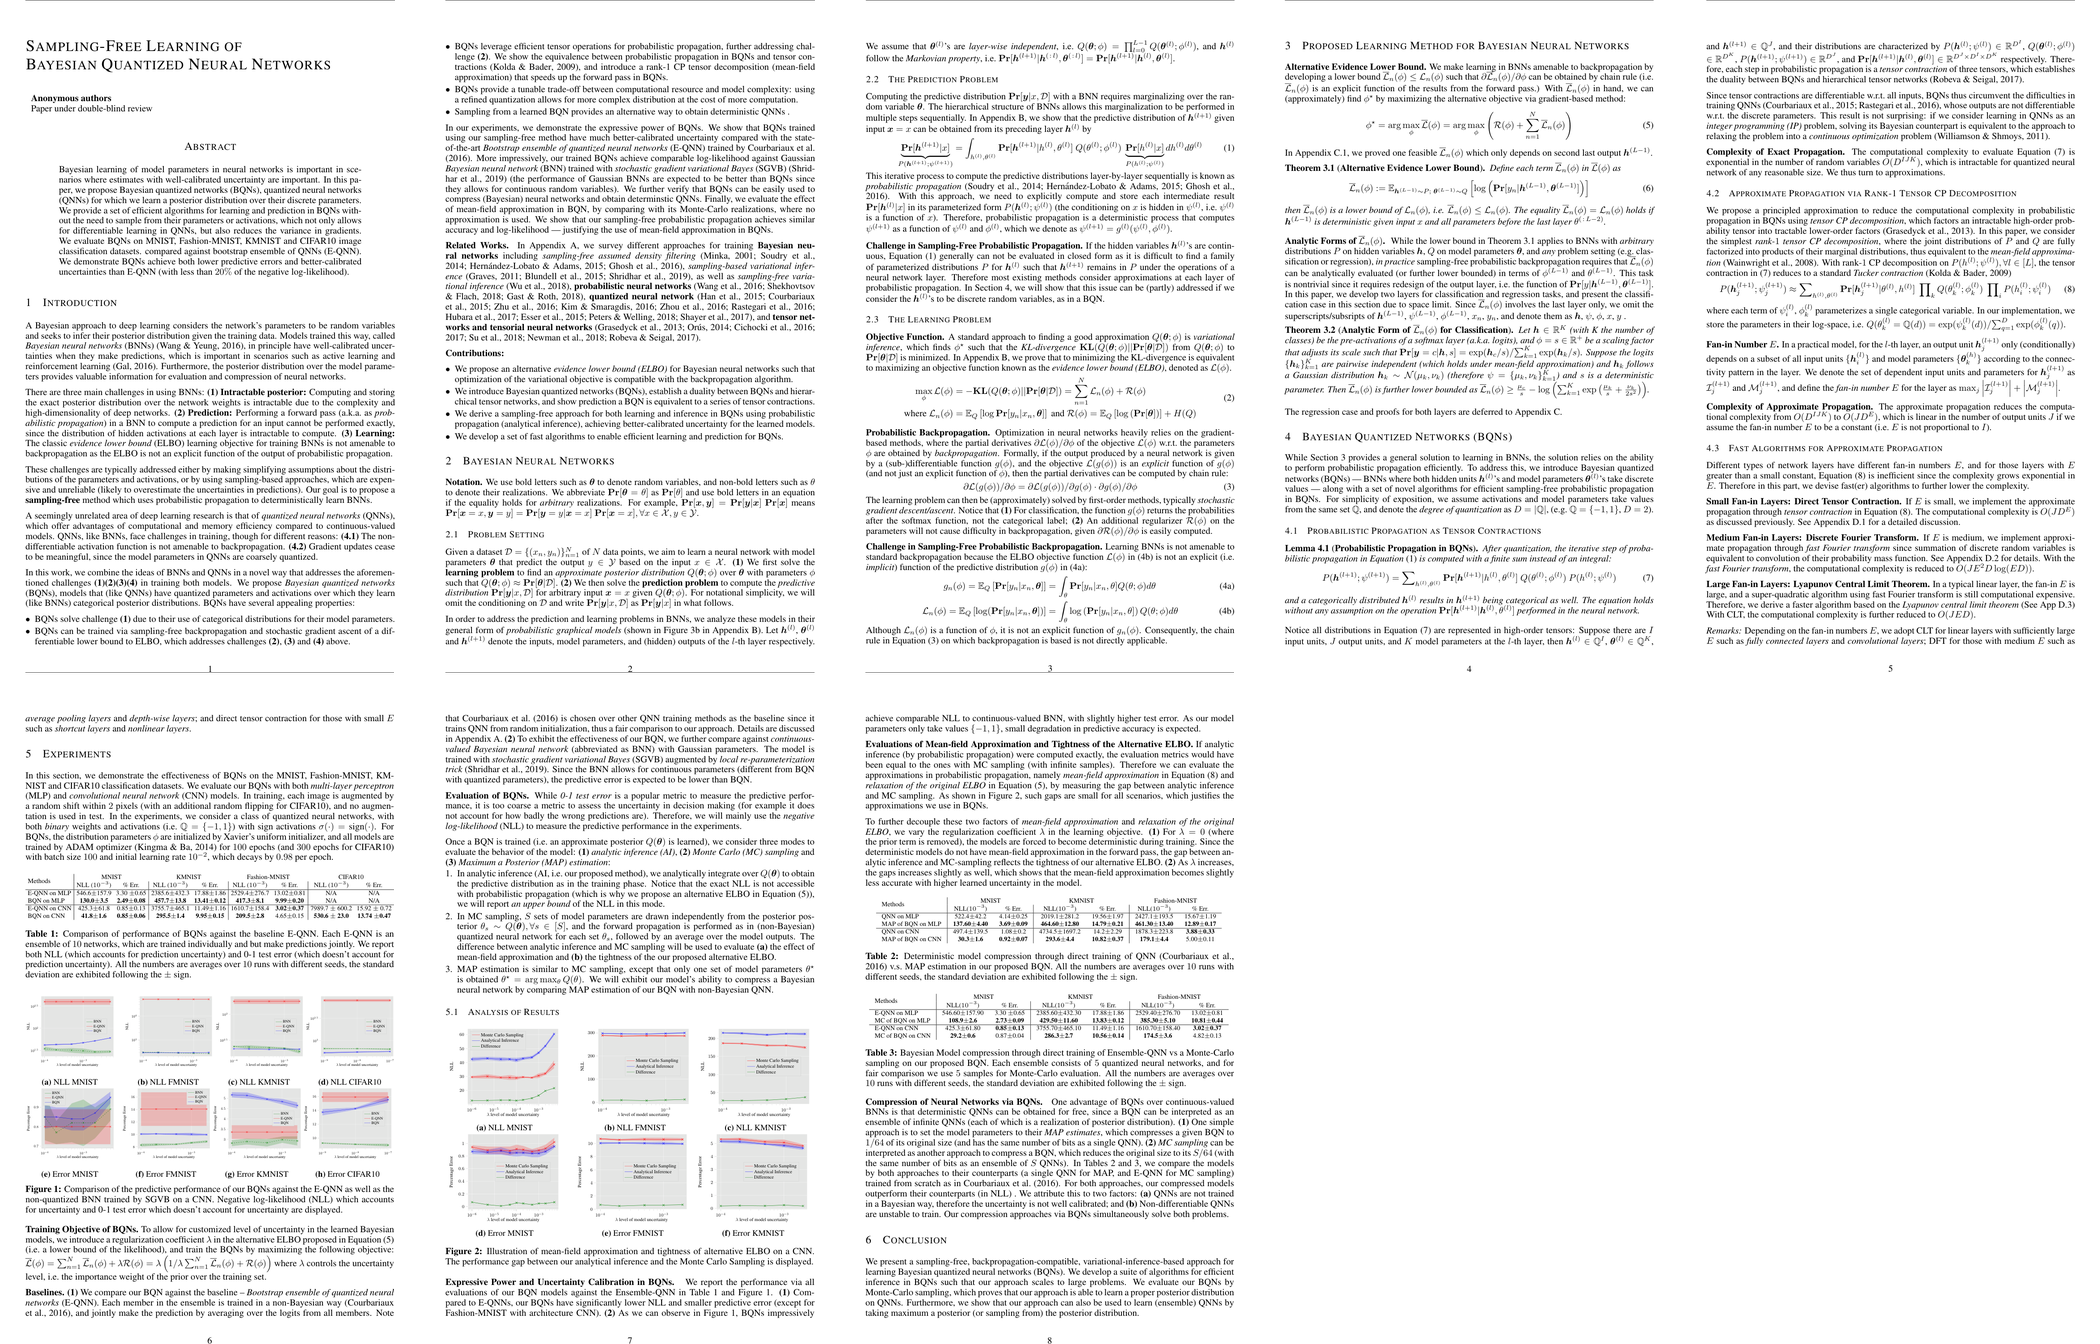
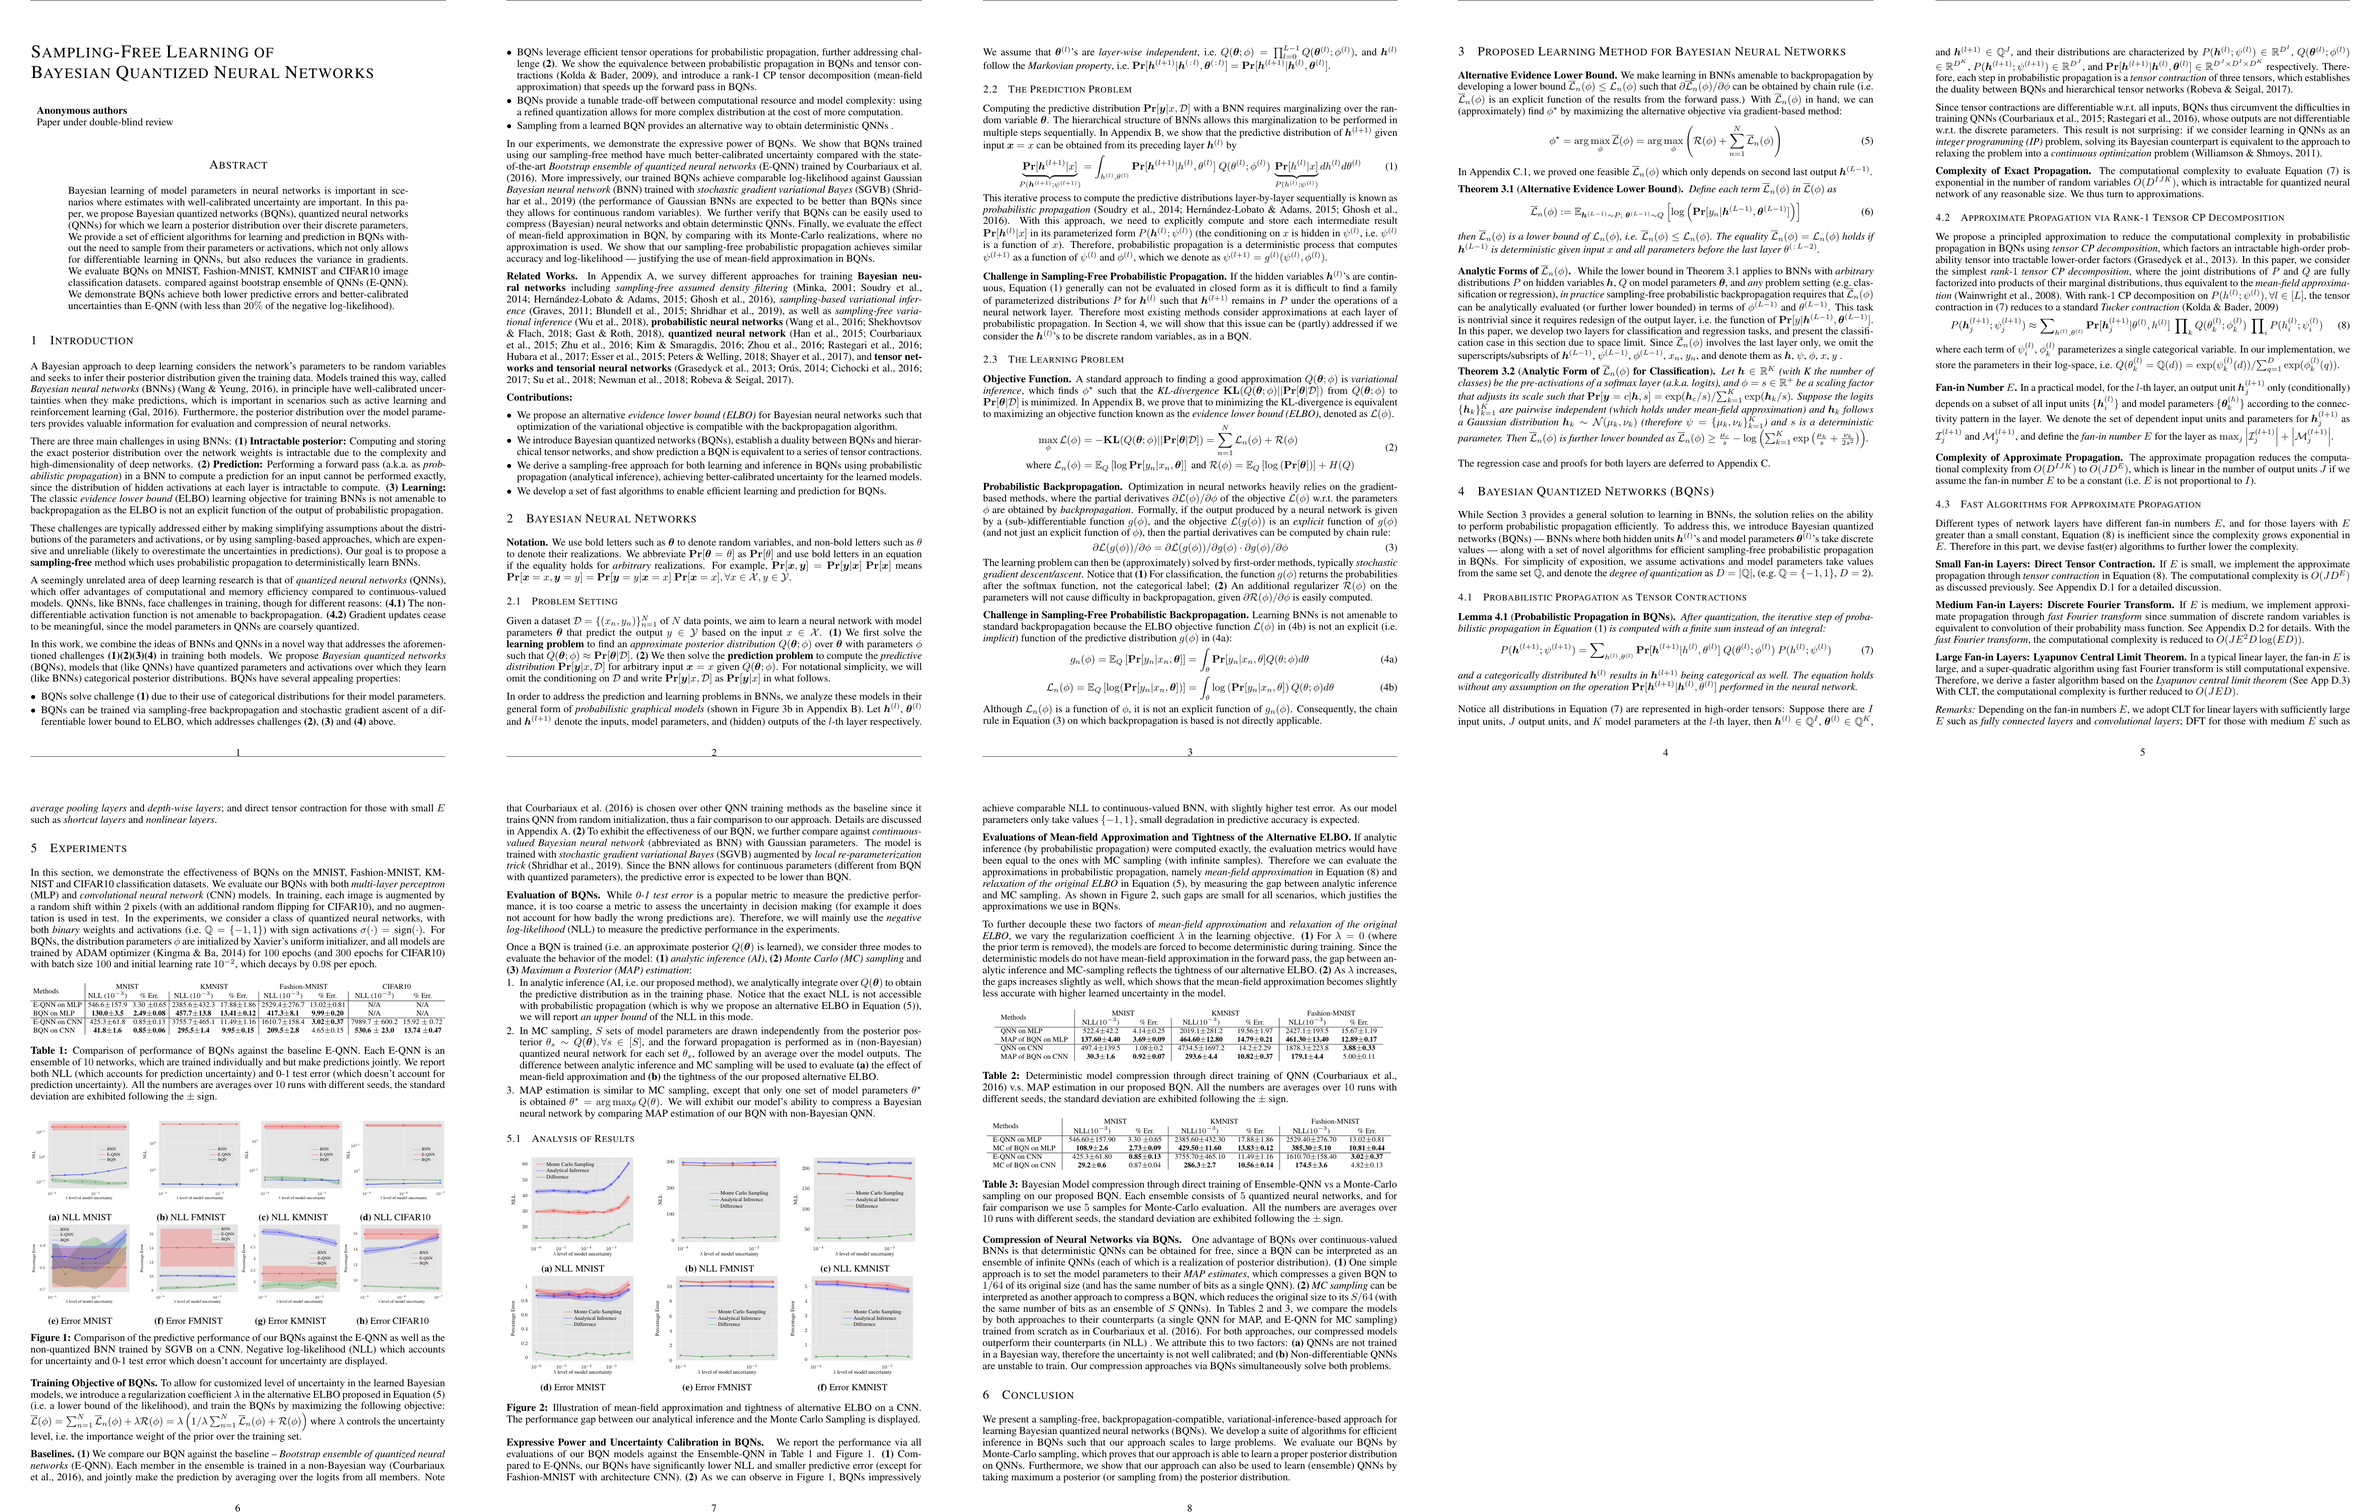
build_panel_images: 2380x1512 — push canvas size up under sub-5k token budget
Cells 476x756 (aspect 0.630, near-identical to prior 0.625).
Tokens: 4,590 (vs 3,600 prior).  Still well under 5k cap and ~54%
of the 8-page baseline (9,920).  Larger cells = more readable text
per panel.

diff --git a/scripts/build_panel_images.py b/scripts/build_panel_images.py
@@ -32,7 +32,7 @@ from PIL import Image, ImageChops
 ROOT = Path(__file__).resolve().parents[1]
 PANEL_DIR = ROOT / "data" / "images_panel"
 
-TARGET_W, TARGET_H = 2100, 1344  # cell aspect 0.625; ~12% horizontal margin vs ICLR content (0.55)
+TARGET_W, TARGET_H = 2380, 1512  # cell aspect 0.630; ~14% horizontal margin vs ICLR content (0.55)
 ROWS, COLS = 2, 5
 PANEL_W, PANEL_H = TARGET_W // COLS, TARGET_H // ROWS  # 448 x 574
 MAX_PAGES = ROWS * COLS  # 10
